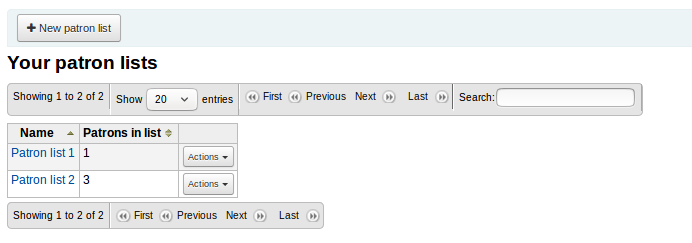
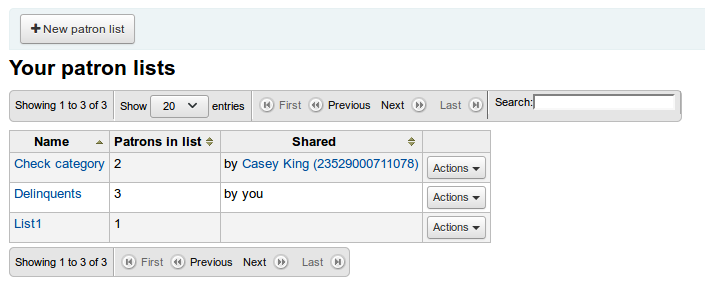
Taiga 664: Share patron lists between staff

Changed region(s): [[0.0, 0.0288, 1.0, 0.9794]]

diff --git a/source/tools.rst b/source/tools.rst
@@ -31,7 +31,12 @@ To create a new list of patrons click the 'New patron list' button
 
 |image246|
 
-Enter a list name and save the list.
+Enter a list name.
+
+Checking the 'Shared' box will make this list visible to all users with 
+the :ref:`manage_patron_lists permission <granular-tools-permissions-label>`.
+
+Save the list.
 
 |image247|
 
